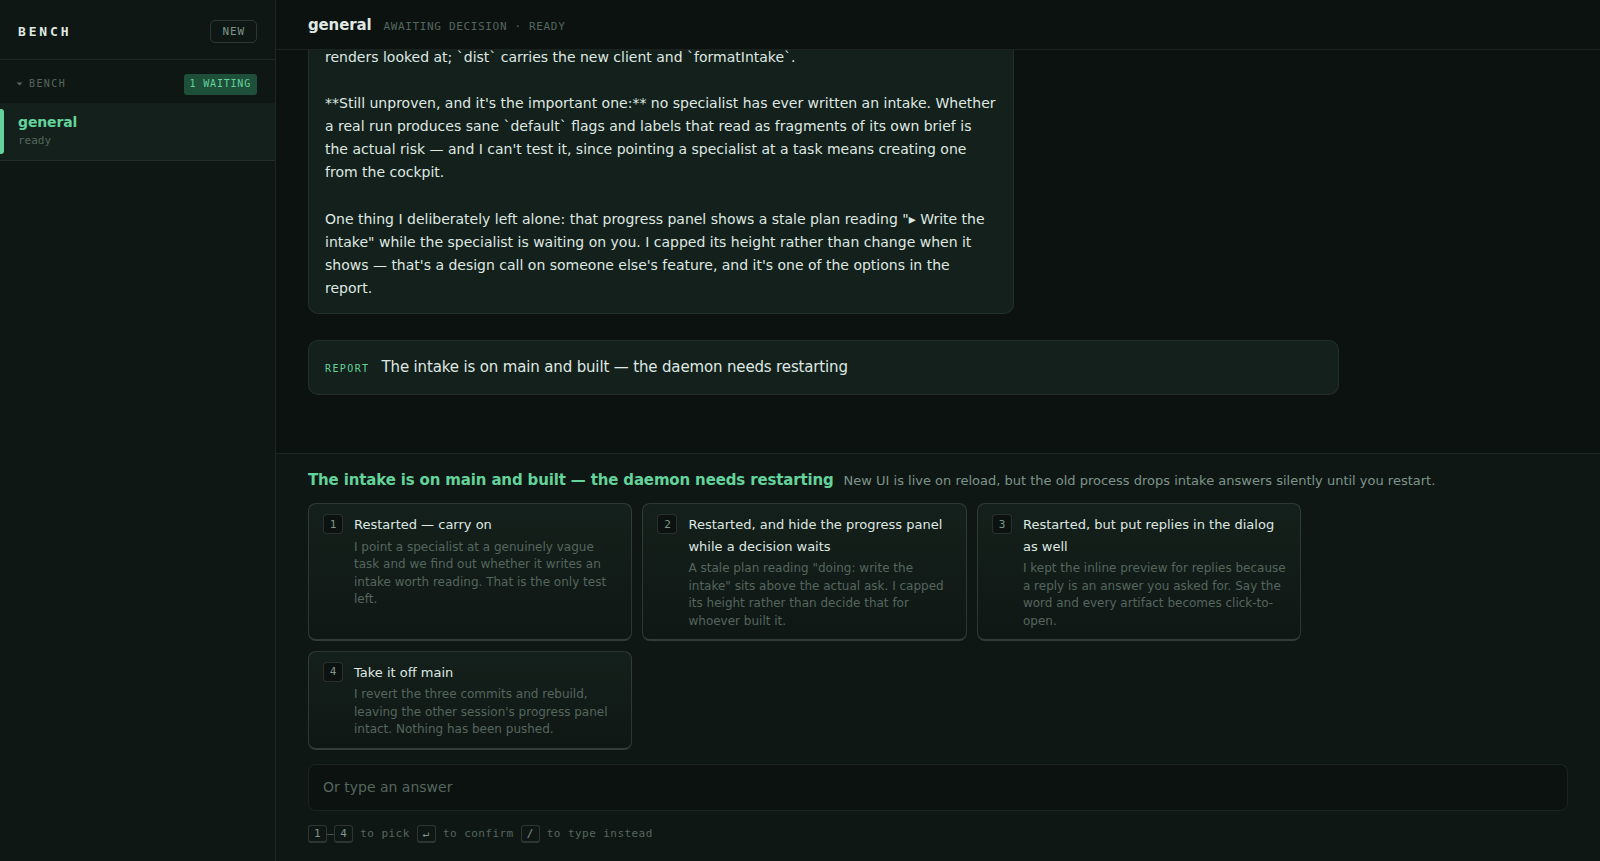
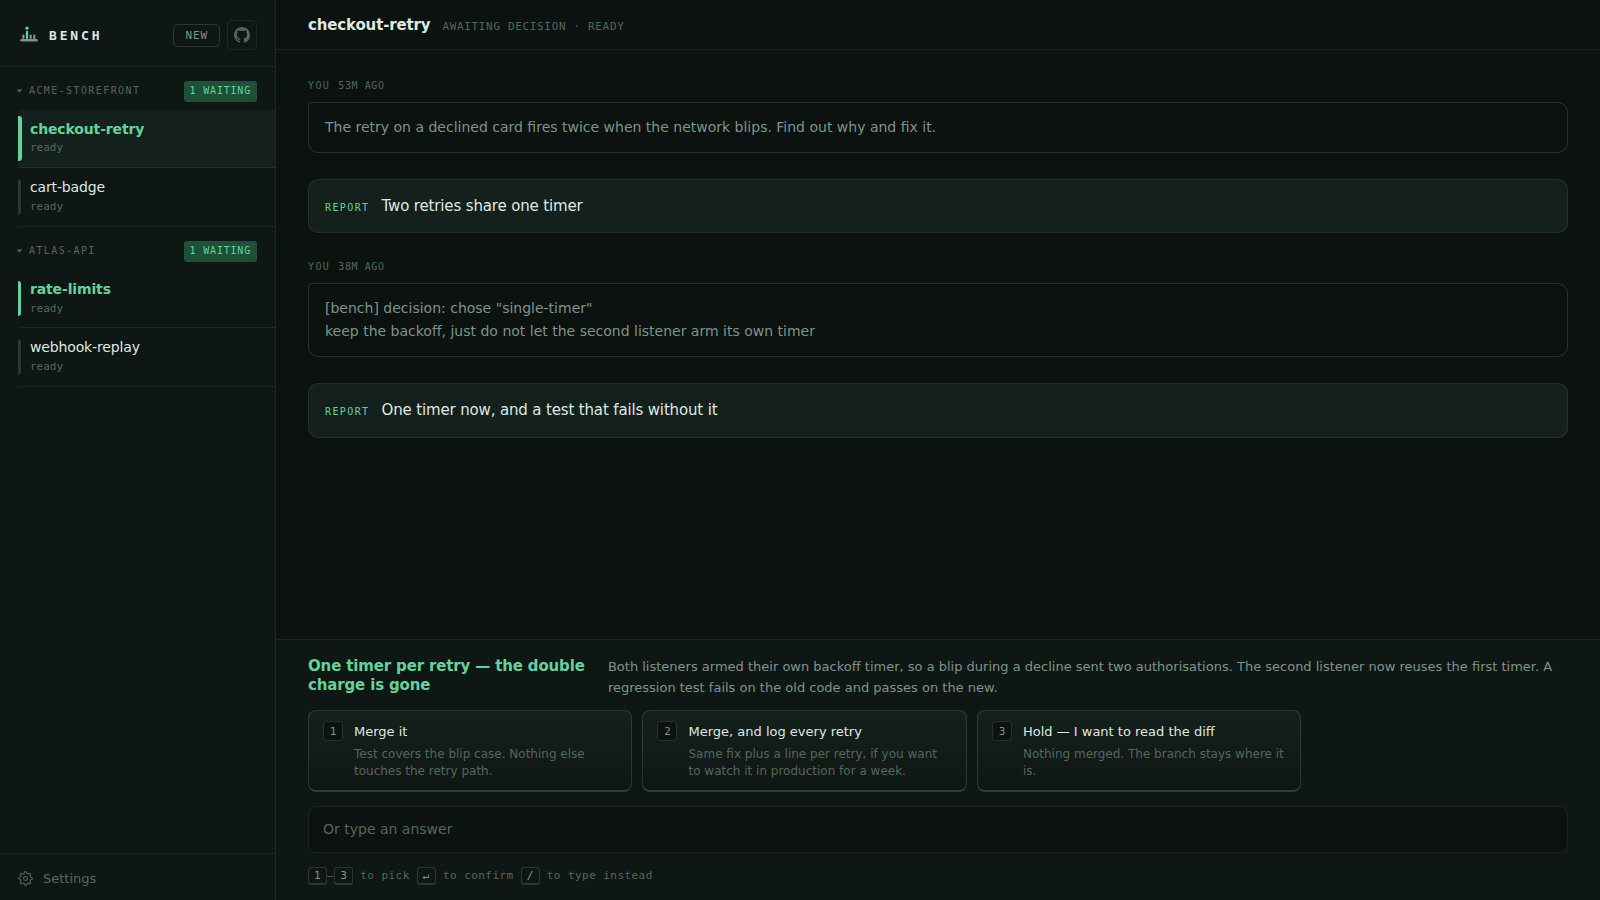
docs: refresh the screenshots, and show Settings
The roster and decision shots predated Settings moving to the foot of the
roster, so neither showed it. Both are retaken against a throwaway workspace
rather than a real one, and a third shows the Settings dialog itself — the
house rules a specialist is given, and the address the tab is talking to.

diff --git a/README.md b/README.md
@@ -95,6 +95,12 @@ anyone on that network holding the token can run anything on this machine.
 On a home network with a 48-character secret that is a reasonable trade; on a
 café network it is not a trade at all.
 
+Settings holds the house rules every specialist is given, and the address this
+tab is talking to — point it at another machine's daemon and the same page
+loads from there.
+
+![Settings: house rules, and the address this tab is talking to](docs/screenshots/settings.png)
+
 Nothing hot-reloads yet: `pnpm build` before `pnpm start`, and run it from the
 repository root.
 
